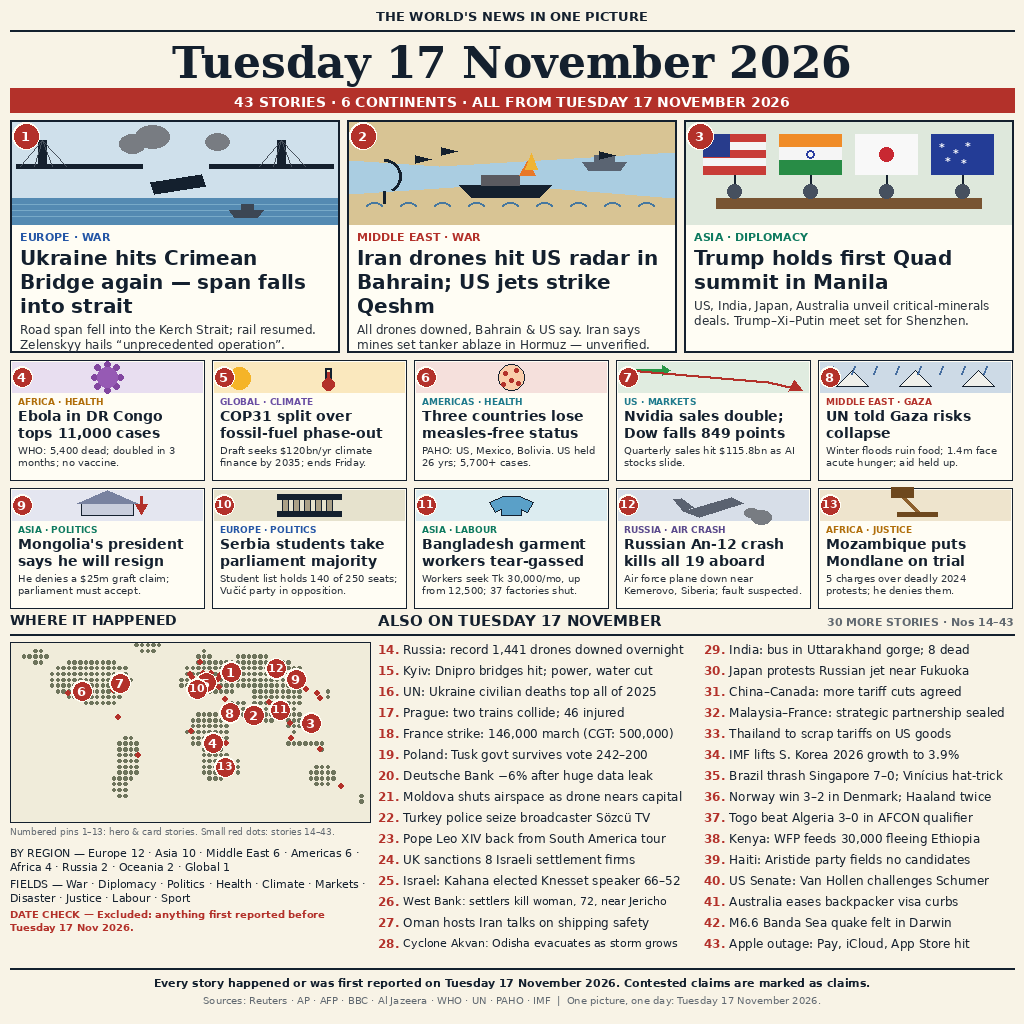
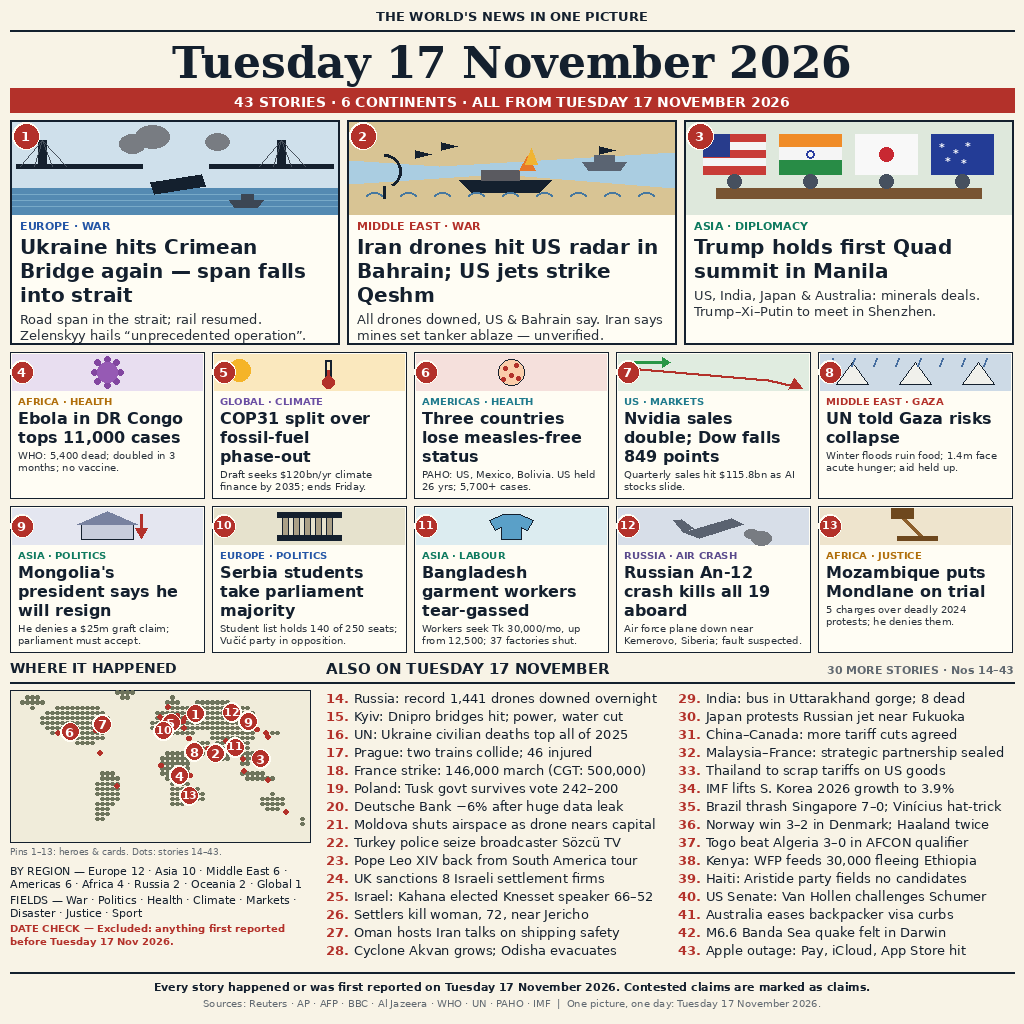
v3: readability pass — card headlines 16px, hero decks 13px shortened, also-list 13px, taller cards and scenes

Changed region(s): [[0.0, 0.125, 1.0, 1.0]]

diff --git a/draw.py b/draw.py
@@ -64,13 +64,13 @@ def badge(d, x, y, n, r=11):
 HEROES = [
     (1, "EUROPE", "EUROPE · WAR", "bridge",
      "Ukraine hits Crimean Bridge again — span falls into strait",
-     "Road span fell into the Kerch Strait; rail resumed. Zelenskyy hails “unprecedented operation”."),
+     "Road span in the strait; rail resumed. Zelenskyy hails “unprecedented operation”."),
     (2, "MIDDLE EAST", "MIDDLE EAST · WAR", "hormuz",
      "Iran drones hit US radar in Bahrain; US jets strike Qeshm",
-     "All drones downed, Bahrain & US say. Iran says mines set tanker ablaze in Hormuz — unverified."),
+     "All drones downed, US & Bahrain say. Iran says mines set tanker ablaze — unverified."),
     (3, "ASIA", "ASIA · DIPLOMACY", "quad",
      "Trump holds first Quad summit in Manila",
-     "US, India, Japan, Australia unveil critical-minerals deals. Trump–Xi–Putin meet set for Shenzhen."),
+     "US, India, Japan & Australia: minerals deals. Trump–Xi–Putin to meet in Shenzhen."),
 ]
 
 CARDS = [
@@ -119,9 +119,9 @@ ALSO = [
     "Pope Leo XIV back from South America tour",
     "UK sanctions 8 Israeli settlement firms",
     "Israel: Kahana elected Knesset speaker 66–52",
-    "West Bank: settlers kill woman, 72, near Jericho",
+    "Settlers kill woman, 72, near Jericho",
     "Oman hosts Iran talks on shipping safety",
-    "Cyclone Akvan: Odisha evacuates as storm grows",
+    "Cyclone Akvan grows; Odisha evacuates",
     "India: bus in Uttarakhand gorge; 8 dead",
     "Japan protests Russian jet near Fukuoka",
     "China–Canada: more tariff cuts agreed",
@@ -330,7 +330,7 @@ BRIEF_DOTS = [
 
 def draw_map(d, x0, y0, w, h):
     d.rectangle([x0, y0, x0 + w, y0 + h], fill=(240, 236, 218), outline=INK, width=1)
-    cols, rows = 64, 31
+    cols, rows = 60, 30
     for r in range(rows):
         lat = 75 - (r + 0.5) * (135 / rows)
         for c in range(cols):
@@ -346,7 +346,7 @@ def draw_map(d, x0, y0, w, h):
         d.ellipse([px - 2.4, py - 2.4, px + 2.4, py + 2.4], fill=RED)
     for n, lon, lat, dx, dy in PINS:
         px, py = proj(lon, lat)
-        badge(d, px + dx, py + dy, n, r=9)
+        badge(d, px + dx, py + dy, n, r=8)
 
 # ---------------- page assembly ----------------------------------------------
 def main():
@@ -358,57 +358,56 @@ def main():
     center(d, 36, "Tuesday 17 November 2026", SERIF_B(44), INK)
     d.rectangle([10, 88, W - 10, 112], fill=RED)
     center(d, 94, "43 STORIES · 6 CONTINENTS · ALL FROM TUESDAY 17 NOVEMBER 2026", SANS_B(14), (255, 255, 255))
-    # heroes
-    hy, hh, hw, hgap = 120, 232, 329, 8
+    # heroes (v3: shorter scenes, larger decks at 13px)
+    hy, hh, hw, hgap = 120, 224, 329, 8
     for i, (n, region, kicker, scene, head, deck) in enumerate(HEROES):
         x = 10 + i * (hw + hgap)
         d.rectangle([x, hy, x + hw, hy + hh], fill=CARD, outline=INK, width=2)
-        SCENES[scene](d, (x + 2, hy + 2, x + hw - 2, hy + 104))
+        SCENES[scene](d, (x + 2, hy + 2, x + hw - 2, hy + 94))
         badge(d, x + 16, hy + 16, n, r=12)
-        d.text((x + 10, hy + 110), kicker, font=SANS_B(11), fill=REGION_COLOR[region])
-        y = text_block(d, x + 10, hy + 126, head, SANS_B(20), INK, hw - 20, 24, 3)
-        text_block(d, x + 10, y + 4, deck, SANS(12), (40, 48, 58), hw - 20, 15, 3)
-    # cards
-    cy0, chh, cw, cgap = 360, 120, 194, 8
+        d.text((x + 10, hy + 99), kicker, font=SANS_B(11), fill=REGION_COLOR[region])
+        y = text_block(d, x + 10, hy + 115, head, SANS_B(20), INK, hw - 20, 24, 3)
+        text_block(d, x + 10, y + 4, deck, SANS(13), (40, 48, 58), hw - 20, 16, 2)
+    # cards (v3: taller cards, 36px scenes, headlines at 16px bold)
+    cy0, chh, cw, cgap = 352, 146, 194, 8
     for i, (n, region, kicker, scene, head, deck) in enumerate(CARDS):
         x = 10 + (i % 5) * (cw + cgap)
         y = cy0 + (i // 5) * (chh + cgap)
         d.rectangle([x, y, x + cw, y + chh], fill=CARD, outline=INK, width=1)
-        scene_card(d, scene, (x + 2, y + 2, x + cw - 2, y + 32))
-        badge(d, x + 12, y + 17, n, r=9)
-        d.text((x + 8, y + 36), kicker, font=SANS_B(9), fill=REGION_COLOR[region])
-        yy = text_block(d, x + 8, y + 48, head, SANS_B(14), INK, cw - 16, 17, 2)
-        text_block(d, x + 8, max(yy + 2, y + 84), deck, SANS(10), (40, 48, 58), cw - 16, 12, 2)
+        scene_card(d, scene, (x + 2, y + 2, x + cw - 2, y + 38))
+        badge(d, x + 12, y + 20, n, r=10)
+        d.text((x + 8, y + 43), kicker, font=SANS_B(10), fill=REGION_COLOR[region])
+        yy = text_block(d, x + 8, y + 57, head, SANS_B(16), INK, cw - 16, 19, 3)
+        fit = max(0, (y + chh - 4 - (yy + 2)) // 12)
+        text_block(d, x + 8, yy + 2, deck, SANS(10), (40, 48, 58), cw - 16, 12, min(3, fit))
     # bottom headers
-    d.text((10, 612), "WHERE IT HAPPENED", font=SANS_B(14), fill=INK)
-    d.text((378, 612), "ALSO ON TUESDAY 17 NOVEMBER", font=SANS_B(15), fill=INK)
+    d.text((10, 660), "WHERE IT HAPPENED", font=SANS_B(14), fill=INK)
+    d.text((326, 660), "ALSO ON TUESDAY 17 NOVEMBER", font=SANS_B(15), fill=INK)
     strap = "30 MORE STORIES · Nos 14–43"
-    d.text((W - 10 - d.textlength(strap, font=SANS_B(11)), 615), strap, font=SANS_B(11), fill=GREY)
-    d.line([10, 634, W - 10, 634], fill=INK, width=2)
-    # map + tallies (left)
-    draw_map(d, 10, 642, 360, 180)
-    d.text((10, 826), "Numbered pins 1–13: hero & card stories. Small red dots: stories 14–43.", font=SANS(9), fill=GREY)
-    ty = 846
-    ty = text_block(d, 10, ty, "BY REGION — Europe 12 · Asia 10 · Middle East 6 · Americas 6 · Africa 4 · Russia 2 · Oceania 2 · Global 1", SANS(11), INK, 360, 14, 3)
-    ty = text_block(d, 10, ty + 3, "FIELDS — War · Diplomacy · Politics · Health · Climate · Markets · Disaster · Justice · Labour · Sport", SANS(11), INK, 360, 14, 3)
-    text_block(d, 10, ty + 3, "DATE CHECK — Excluded: anything first reported before Tuesday 17 Nov 2026.", SANS_B(10), RED, 360, 13, 2)
-    # also list (right, two columns of 15)
-    lx, lw, row_h = 378, 310, 21
+    d.text((W - 10 - d.textlength(strap, font=SANS_B(11)), 663), strap, font=SANS_B(11), fill=GREY)
+    d.line([10, 682, W - 10, 682], fill=INK, width=2)
+    # map + tallies (left, narrower in v3)
+    draw_map(d, 10, 690, 300, 152)
+    d.text((10, 846), "Pins 1–13: heroes & cards. Dots: stories 14–43.", font=SANS(9), fill=GREY)
+    ty = 864
+    ty = text_block(d, 10, ty, "BY REGION — Europe 12 · Asia 10 · Middle East 6 · Americas 6 · Africa 4 · Russia 2 · Oceania 2 · Global 1", SANS(11), INK, 300, 13, 3)
+    ty = text_block(d, 10, ty + 3, "FIELDS — War · Politics · Health · Climate · Markets · Disaster · Justice · Sport", SANS(11), INK, 300, 13, 3)
+    text_block(d, 10, ty + 3, "DATE CHECK — Excluded: anything first reported before Tuesday 17 Nov 2026.", SANS_B(10), RED, 300, 13, 2)
+    # also list (right, two columns of 15, all at 13px)
+    lx, lw, row_h = 326, 336, 18
     for i, item in enumerate(ALSO):
         col, row = i // 15, i % 15
         x = lx + col * (lw + 16)
-        y = 642 + row * row_h
+        y = 690 + row * row_h
         num = f"{14 + i}."
-        d.text((x, y), num, font=SANS_B(12), fill=RED)
-        nw = d.textlength(num + " ", font=SANS_B(12))
-        f = SANS(12)
-        if d.textlength(item, font=f) > lw - nw:
-            f = SANS(11)
-        d.text((x + nw, y), item, font=f, fill=INK)
+        d.text((x, y), num, font=SANS_B(13), fill=RED)
+        nw = d.textlength(num + " ", font=SANS_B(13))
+        assert d.textlength(item, font=SANS(13)) <= lw - nw, f"also item {14 + i} too wide"
+        d.text((x + nw, y), item, font=SANS(13), fill=INK)
     # footer
-    d.line([10, 968, W - 10, 968], fill=INK, width=2)
-    center(d, 976, "Every story happened or was first reported on Tuesday 17 November 2026. Contested claims are marked as claims.", SANS_B(11), INK)
-    center(d, 994, "Sources: Reuters · AP · AFP · BBC · Al Jazeera · WHO · UN · PAHO · IMF  |  One picture, one day: Tuesday 17 November 2026.", SANS(10), GREY)
+    d.line([10, 972, W - 10, 972], fill=INK, width=2)
+    center(d, 980, "Every story happened or was first reported on Tuesday 17 November 2026. Contested claims are marked as claims.", SANS_B(11), INK)
+    center(d, 997, "Sources: Reuters · AP · AFP · BBC · Al Jazeera · WHO · UN · PAHO · IMF  |  One picture, one day: Tuesday 17 November 2026.", SANS(10), GREY)
     img.save("entry.png", optimize=True)
     print("wrote entry.png")
 
